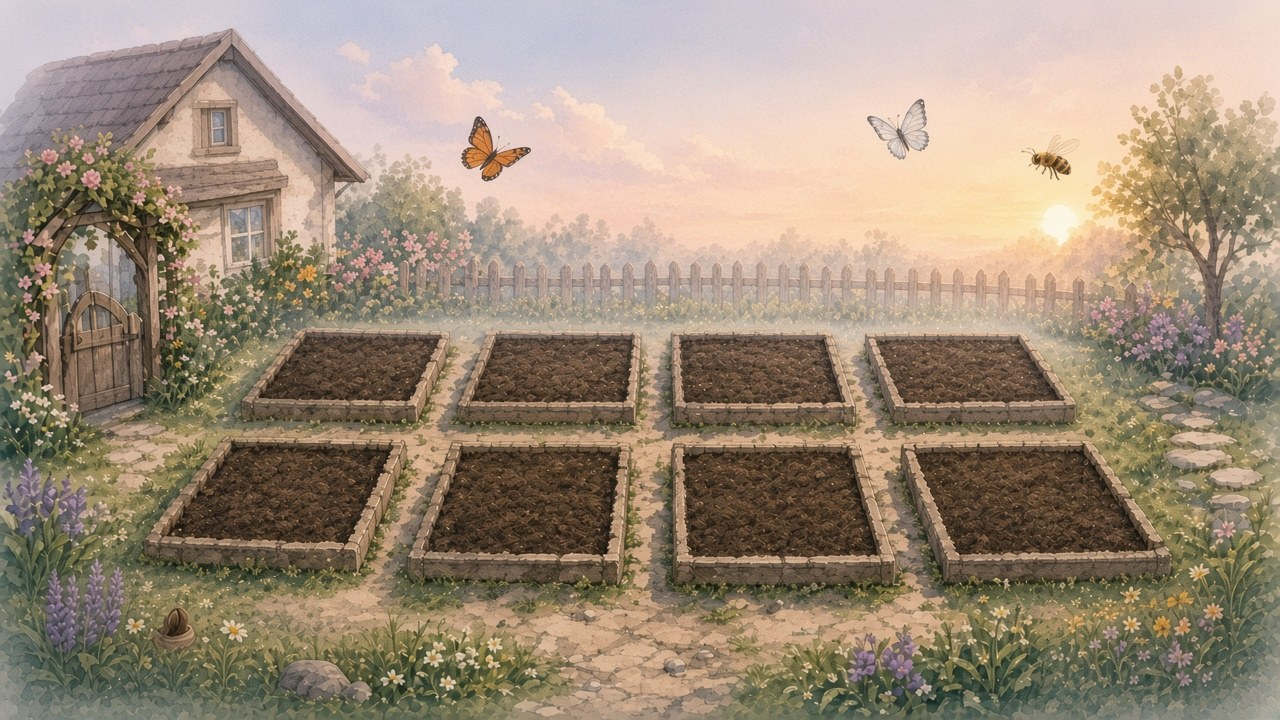
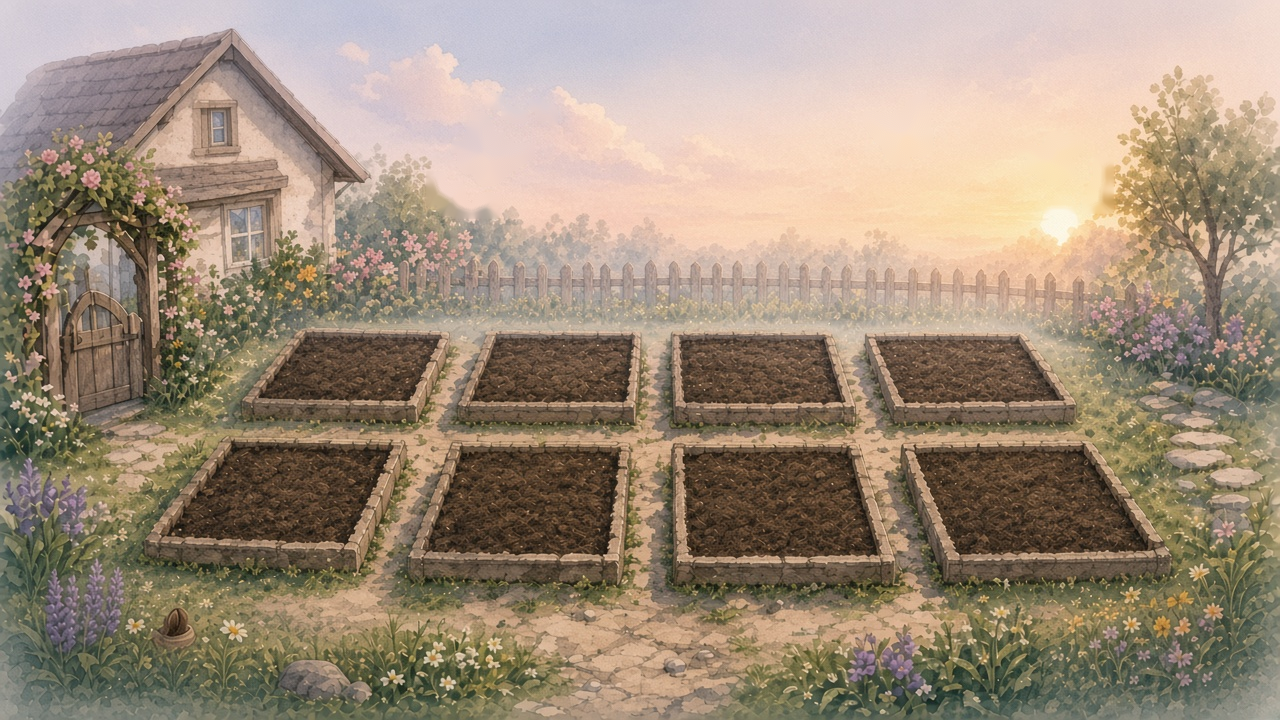
Apply Heily critters-handoff zip for strips and day backdrops
Replace placeholder critter strips and dawn/midday/golden-hour PNGs with
the designer export; normalize asset tests for manifest layout.

Changed region(s): [[0.3125, 0.1528, 0.4062, 0.3056], [0.7812, 0.1833, 0.875, 0.3056], [0.6562, 0.1528, 0.75, 0.2139]]

diff --git a/test/assets.test.js b/test/assets.test.js
@@ -76,18 +76,40 @@ test('decoration art and per-spot scale', () => {
     }
 });
 
+const CRITTER_FILES = {
+    'butterfly-monarch': 'butterfly-monarch-strip.png',
+    'butterfly-white': 'butterfly-white-strip.png',
+    bee: 'bee-strip.png',
+};
+
+function critterManifestEntries(manifest) {
+    if (manifest.strips) {
+        return Object.entries(manifest.strips).map(([key, spec]) => [key, spec]);
+    }
+    return Object.entries(manifest)
+        .filter(([key]) => CRITTER_FILES[key])
+        .map(([key, spec]) => [key, {
+            file: CRITTER_FILES[key],
+            frameW: spec.size[0],
+            frameH: spec.size[1],
+            fps: spec.fps,
+            frames: spec.frames,
+        }]);
+}
+
 test('critter strips and day backdrops without painted insects', () => {
     assert.ok(ART.critters);
     const manifest = JSON.parse(fs.readFileSync(path.join(root, 'assets', 'critters', 'manifest.json'), 'utf8'));
-    for (const [key, spec] of Object.entries(manifest.strips)) {
+    for (const [key, spec] of critterManifestEntries(manifest)) {
         assert.ok(ART.critters.strips[key], `art critters ${key}`);
         assert.equal(ART.critters.strips[key].frameW, spec.frameW);
+        assert.equal(ART.critters.strips[key].fps, spec.fps);
         assert.ok(fs.existsSync(path.join(root, 'assets', 'critters', spec.file)), spec.file);
         const buf = fs.readFileSync(path.join(root, 'assets', 'critters', spec.file));
         const w = buf.readUInt32BE(16);
         const Cmod = require('../game/critters.js');
         const frames = Cmod.stripFrameCount(w, spec.frameW);
-        assert.equal(frames, key === 'bee' ? 4 : 8, `${key} frame count`);
+        assert.equal(frames, spec.frames, `${key} frame count`);
     }
     for (const day of ['dawn', 'midday', 'golden-hour']) {
         assert.ok(ART.backgrounds[day].endsWith('.png'), day);

diff --git a/assets/critters/preview.py b/assets/critters/preview.py
@@ -1,55 +1,21 @@
-#!/usr/bin/env python3
-"""Heily reference: gentle critter loops at ~0.5 scale (see game/critters.js wander paths)."""
-# pylint: skip-file
-from __future__ import annotations
-
+# Preview: insects flying gentle paths over the cleaned dawn backdrop.
 import math
-from pathlib import Path
-
-try:
-    from PIL import Image, ImageDraw
-except ImportError:
-    raise SystemExit("pip install pillow")
-
-ROOT = Path(__file__).resolve().parents[2]
-STRIPS = ROOT / "assets" / "critters"
-OUT = ROOT / "assets" / "critters" / "_preview.png"
-W, H = 1280, 720
-SCALE = 0.5
-
-
-def pos(entry: dict, t: float) -> tuple[float, float]:
-    ax, ay = entry["anchor"]
-    amp_x = entry.get("ampX", 80)
-    amp_y = entry.get("ampY", 22)
-    sp = entry.get("pathSpeed", 0.22)
-    ts = entry.get("timeScale", 1)
-    ph = entry.get("phase", 0)
-    tt = t * ts + ph
-    x = ax + math.sin(tt * sp) * amp_x + math.sin(tt * sp * 0.37 + ph * 1.7) * (amp_x * 0.22)
-    y = ay + math.cos(tt * sp * 0.83 + 1.2) * amp_y + math.sin(tt * 0.91 + ph * 2.3) * 5
-    return x, y
-
-
-ROSTER = [
-    {"id": "monarch", "anchor": (420, 280), "phase": 0.2, "color": (220, 120, 40)},
-    {"id": "white", "anchor": (820, 320), "phase": 2.1, "color": (240, 240, 230)},
-    {"id": "bee", "anchor": (640, 240), "phase": 4.7, "color": (240, 200, 60)},
-]
-
-
-def main() -> None:
-    img = Image.new("RGBA", (W, H), (40, 80, 40, 255))
-    draw = ImageDraw.Draw(img)
-    t = 12.0
-    for e in ROSTER:
-        x, y = pos(e, t)
-        r = 8 * SCALE * 40
-        draw.ellipse((x - r, y - r, x + r, y + r), fill=(*e["color"], 200))
-    OUT.parent.mkdir(parents=True, exist_ok=True)
-    img.save(OUT)
-    print("wrote", OUT)
-
-
-if __name__ == "__main__":
-    main()
+from PIL import Image
+bg=Image.open('backgrounds/dawn.png').convert('RGBA')
+def load(n,k): s=Image.open(f'frames/{n}-strip.png'); w=s.width//k; return [s.crop((i*w,0,(i+1)*w,s.height)) for i in range(k)]
+mon,wht,bee=load('butterfly-monarch',8),load('butterfly-white',8),load('bee',4)
+N=72; frames=[]
+for t in range(N):
+    im=bg.copy(); u=t/N*2*math.pi
+    for fr,(cx,cy,ax,ay,ph,sc) in [(mon,(500,150,90,30,0,0.55)),(wht,(900,130,70,25,2,0.5))]:
+        x=cx+ax*math.sin(u+ph); y=cy+ay*math.sin(2*u+ph)+4*math.sin(t*0.9)
+        dx=ax*math.cos(u+ph); dy=2*ay*math.cos(2*u+ph); ang=math.degrees(math.atan2(dx,-dy))
+        f=fr[t%8]; f=f.resize((int(f.width*sc),int(f.height*sc)),Image.LANCZOS).rotate(-ang*0.35,expand=True,resample=Image.BICUBIC)
+        im.alpha_composite(f,(int(x-f.width/2),int(y-f.height/2)))
+    x=1050+60*math.sin(u); y=165+10*math.sin(3*u)
+    f=bee[t%4]; f=f.resize((int(f.width*.5),int(f.height*.5)),Image.LANCZOS)
+    if math.cos(u)>0: f=f.transpose(Image.FLIP_LEFT_RIGHT)
+    im.alpha_composite(f,(int(x-f.width/2),int(y-f.height/2)))
+    frames.append(im.convert('RGB').resize((960,540),Image.LANCZOS))
+frames[0].save('critters-preview.gif',save_all=True,append_images=frames[1:],duration=83,loop=0)
+frames[10].save('critters-preview-still.png')
